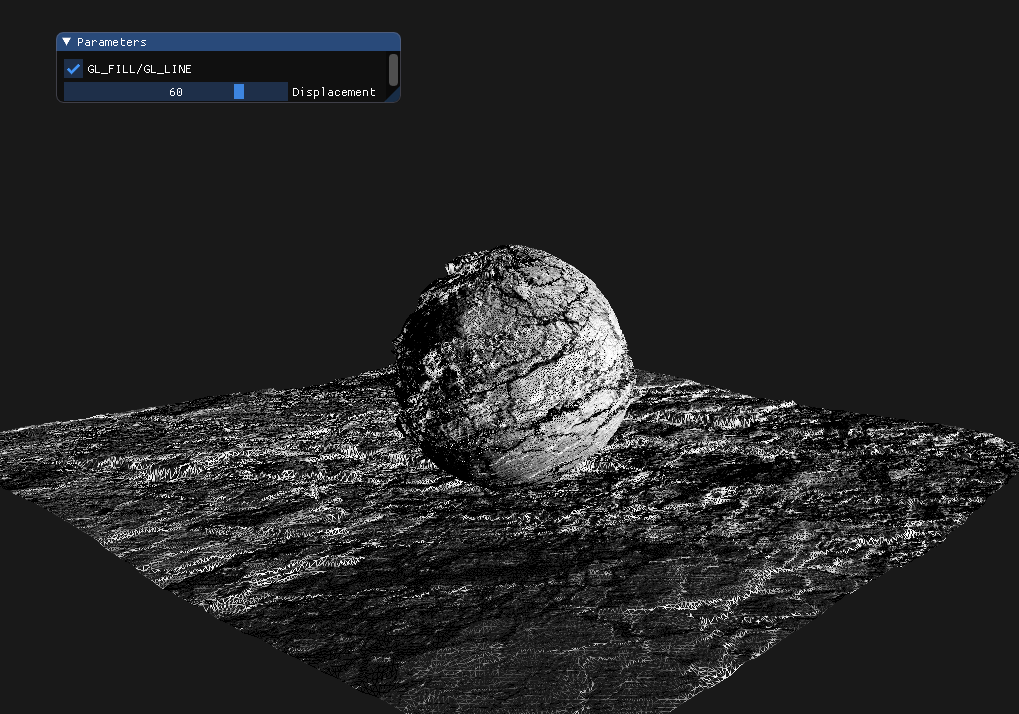
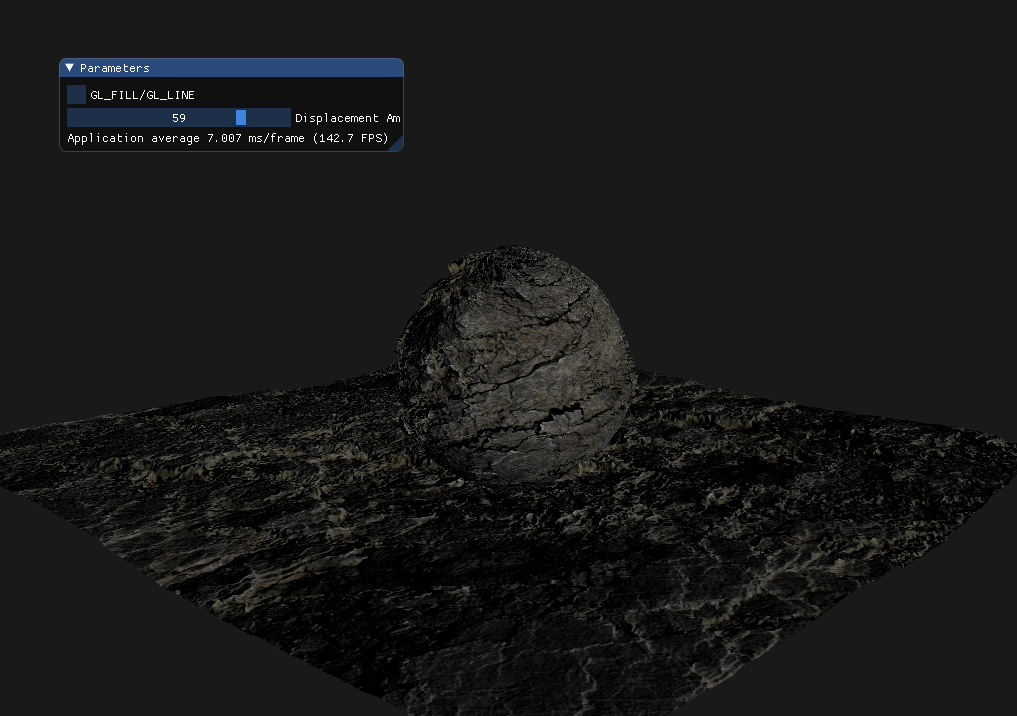
[app] add a diffuse map to the tessellation application (looks nice)

Changed region(s): [[0.0, 0.3389, 1.0, 1.0], [0.0305, 0.0308, 0.3963, 0.2157]]

diff --git a/src/app/05_tessellation/tessellation/Renderer.cpp b/src/app/05_tessellation/tessellation/Renderer.cpp
@@ -67,19 +67,21 @@ void Renderer::createVaoVboEbo(const engine::Scene& scene)
     glUniform1i(heightMapID, 0);
     const auto normalMapID = glGetUniformLocation(m_program, "normalMap");
     glUniform1i(normalMapID, 1);
+    const auto diffuseMapID = glGetUniformLocation(m_program, "diffuseMap");
+    glUniform1i(diffuseMapID, 2);
     m_displacementAmplitudeID = glGetUniformLocation(m_program, "displacementAmplitude");
     glUniform1f(m_displacementAmplitudeID, 10.0f);
     glUseProgram(0);
     THROW_IF_GL_ERROR;
 }
-void Renderer::createTextures(const DisplacementMaps& maps)
+void Renderer::createTextures(const MaterialMaps& maps)
 {
     engine::SamplerParameters sampleParams{};
     sampleParams.minFilter = GL_LINEAR;
     engine::TextureParameters textureParams{};
-    // [0] height, [1] normal
-    std::array<GLuint, 2> textures{};
-    glGenTextures(2, textures.data());
+    // [0] height, [1] normal, [2] diffuse
+    std::array<GLuint, 3> textures{};
+    glGenTextures(textures.size(), textures.data());
     glBindTexture(GL_TEXTURE_2D, textures[0]);
     {
         stbipp::Image textureData{};
@@ -93,11 +95,9 @@ void Renderer::createTextures(const DisplacementMaps& maps)
                      GL_RED,
                      GL_UNSIGNED_BYTE,
                      textureData.castData<stbipp::Coloruc>().data());
-        THROW_IF_GL_ERROR;
         applySamplerParametersOnTexture(GL_TEXTURE_2D, sampleParams);
         applyTextureParameters(GL_TEXTURE_2D, textureParams);
     }
-    THROW_IF_GL_ERROR;
     glBindTexture(GL_TEXTURE_2D, textures[1]);
     {
         stbipp::Image textureData{};
@@ -114,10 +114,26 @@ void Renderer::createTextures(const DisplacementMaps& maps)
         applySamplerParametersOnTexture(GL_TEXTURE_2D, sampleParams);
         applyTextureParameters(GL_TEXTURE_2D, textureParams);
     }
-    THROW_IF_GL_ERROR;
+    glBindTexture(GL_TEXTURE_2D, textures[2]);
+    {
+        stbipp::Image textureData{};
+        stbipp::loadImage(maps.color, textureData, stbipp::ImageFormat::RGB8);
+        glTexImage2D(GL_TEXTURE_2D,
+                     0,
+                     GL_RGB8,
+                     textureData.width(),
+                     textureData.height(),
+                     0,
+                     GL_RGB,
+                     GL_UNSIGNED_BYTE,
+                     textureData.castData<stbipp::Color3uc>().data());
+        applySamplerParametersOnTexture(GL_TEXTURE_2D, sampleParams);
+        applyTextureParameters(GL_TEXTURE_2D, textureParams);
+    }
     glBindTexture(GL_TEXTURE_2D, 0);
     m_heightTexture = textures[0];
     m_normalTexture = textures[1];
+    m_diffuseTexture = textures[2];
     if(!CHECK_NO_GL_ERROR)
     {
         throw std::runtime_error("Could not create texture object");
@@ -135,6 +151,8 @@ void Renderer::render() const
     glBindTexture(GL_TEXTURE_2D, m_heightTexture);
     glActiveTexture(GL_TEXTURE1);
     glBindTexture(GL_TEXTURE_2D, m_normalTexture);
+    glActiveTexture(GL_TEXTURE2);
+    glBindTexture(GL_TEXTURE_2D, m_diffuseTexture);
     glBindVertexArray(m_vao);
     glDrawElements(GL_PATCHES, m_nbTriangles, GL_UNSIGNED_INT, nullptr);
     glBindVertexArray(0);
@@ -147,7 +165,7 @@ void Renderer::render() const
 
 Renderer::Renderer(const engine::PipelineShaderPaths& shaderPaths,
                    const engine::Scene& scene,
-                   const DisplacementMaps& maps):
+                   const MaterialMaps& maps):
   engine::GLProgram(shaderPaths), m_camera(scene.cameras[0]), m_nbTriangles(scene.meshes[0]->faces.size() * 3)
 {
     createVaoVboEbo(scene);

diff --git a/src/app/05_tessellation/tessellation/Renderer.hpp b/src/app/05_tessellation/tessellation/Renderer.hpp
@@ -8,8 +8,9 @@
 class Renderer final : public engine::GLProgram
 {
   public:
-    struct DisplacementMaps
+    struct MaterialMaps
     {
+        std::string color{};
         std::string height{};
         std::string normal{};
     };
@@ -20,6 +21,7 @@ class Renderer final : public engine::GLProgram
     GLuint m_ebo;
     GLuint m_heightTexture;
     GLuint m_normalTexture;
+    GLuint m_diffuseTexture;
     GLuint m_PVMatID;
     GLuint m_lightDirID;
     GLuint m_displacementAmplitudeID;
@@ -28,11 +30,11 @@ class Renderer final : public engine::GLProgram
     engine::Viewport m_viewport;
 
     void createVaoVboEbo(const engine::Scene& scene);
-    void createTextures(const DisplacementMaps& maps);
+    void createTextures(const MaterialMaps& maps);
 
   public:
     void render() const;
-    Renderer(const engine::PipelineShaderPaths& shaderPaths, const engine::Scene& scene, const DisplacementMaps& maps);
+    Renderer(const engine::PipelineShaderPaths& shaderPaths, const engine::Scene& scene, const MaterialMaps& maps);
     ~Renderer();
 
     void setViewport(const engine::Viewport& viewport);

diff --git a/src/app/05_tessellation/main.cpp b/src/app/05_tessellation/main.cpp
@@ -62,8 +62,9 @@ int main(int argc, char* argv[])
     shaders.vertexShader = std::string(SHADER_PATH) + "/vertex.vs";
     shaders.tessControlShader = std::string(SHADER_PATH) + "/tesControl.tesc";
     shaders.tessEvaluationShader = std::string(SHADER_PATH) + "/tesEval.tese";
-    Renderer::DisplacementMaps maps{std::string(MATERIAL_PATH) + "/Displacement.jpg",
-                                    std::string(MATERIAL_PATH) + "/Normal.jpg"};
+    Renderer::MaterialMaps maps{std::string(MATERIAL_PATH) + "/Color.jpg",
+                                std::string(MATERIAL_PATH) + "/Displacement.jpg",
+                                std::string(MATERIAL_PATH) + "/Normal.jpg"};
     Renderer renderer(shaders, scene, maps);
     const auto start = std::chrono::steady_clock::now();
 
